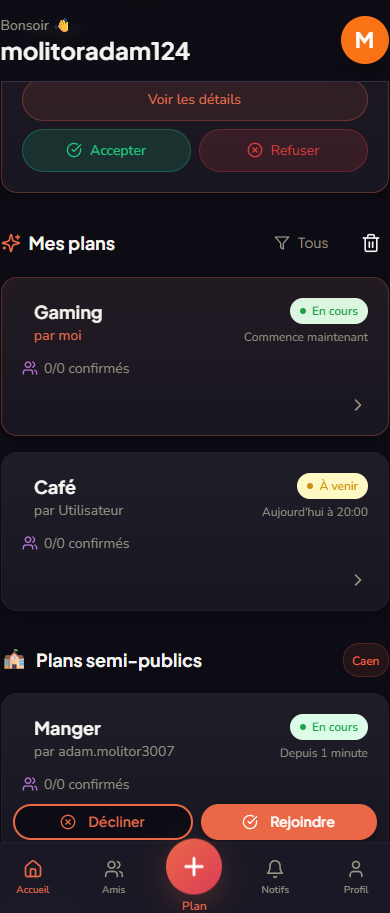
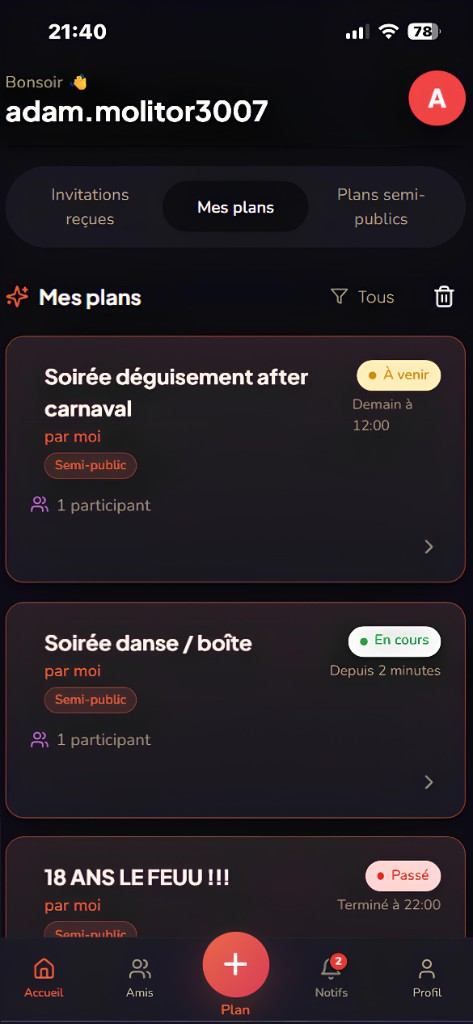
Description

Changed region(s): [[0.0, 0.0, 1.0, 1.0], [0.0, 0.184, 0.0308, 0.2147]]

diff --git a/src/components/HeroSection.tsx b/src/components/HeroSection.tsx
@@ -1,4 +1,4 @@
-import socialSceneImage from "@/assets/social-scene.jpg";
+import socialSceneImage from "@/assets/social-scene.png";
 
 const INSTAGRAM_COMMUNITY_LINK = "https://ig.me/j/Abbq3hHQWv0LUGOG/";
 const DISCORD_INVITE_LINK = "https://discord.gg/azSbYCFmS3";
@@ -13,7 +13,7 @@ const HeroSection = () => {
       <div className="absolute inset-0 overflow-hidden pointer-events-none">
         <img
           src={socialSceneImage}
-          alt="Groupe d'amis qui sortent en ville le soir"
+          alt="Foule en soirée, mains levées au coucher de soleil — événement et nightlife"
           className="w-full h-full object-cover"
         />
         <div className="absolute inset-0 bg-gradient-to-b from-black/60 via-black/50 to-black/70" />
@@ -29,21 +29,21 @@ const HeroSection = () => {
             </span>
           </div>
 
-          {/* Headline - SEO + émotion */}
+          {/* Headline - SEO + émotion (légère ombre pour lisibilité) */}
           <h1
             id="weout-hero-heading"
-            className="text-4xl sm:text-5xl md:text-6xl font-bold leading-[1.1] tracking-tight mb-6 animate-fade-in"
+            className="text-4xl sm:text-5xl md:text-6xl font-bold leading-[1.1] tracking-tight mb-6 animate-fade-in [text-shadow:0_1px_2px_rgba(0,0,0,0.4),0_0_12px_rgba(0,0,0,0.25)]"
             style={{ animationDelay: "0.1s" }}
           >
             Sortir à Caen{" "}
-            <span className="bg-gradient-to-r from-accent to-primary bg-clip-text text-transparent">
+            <span className="bg-gradient-to-r from-accent to-primary bg-clip-text text-transparent [text-shadow:0_1px_2px_rgba(0,0,0,0.4),0_0_12px_rgba(0,0,0,0.25)]">
               avec tes amis, ce soir.
             </span>
           </h1>
 
-          {/* Subheadline - projection + mots-clés */}
+          {/* Subheadline - projection + mots-clés (blanc + ombre pour lisibilité sur la photo) */}
           <p
-            className="text-lg md:text-xl text-muted-foreground max-w-lg mx-auto mb-10 animate-fade-in leading-relaxed"
+            className="text-lg md:text-xl text-white/95 max-w-lg mx-auto mb-10 animate-fade-in leading-relaxed [text-shadow:0_1px_4px_rgba(0,0,0,0.8),0_0_20px_rgba(0,0,0,0.5)]"
             style={{ animationDelay: "0.2s" }}
           >
             WeOut est l'app pour organiser des sorties entre amis, rencontrer des gens
@@ -95,7 +95,7 @@ const HeroSection = () => {
             </a>
             
             {/* Micro social proof */}
-            <p className="text-sm text-muted-foreground mt-2 flex items-center justify-center gap-2">
+            <p className="text-sm text-white/90 mt-2 flex items-center justify-center gap-2 [text-shadow:0_1px_3px_rgba(0,0,0,0.9)]">
               <span className="w-1.5 h-1.5 rounded-full bg-accent/60" />
               Accès prioritaire à l'app pour les membres de la communauté
             </p>

diff --git a/src/components/TestimonialsSection.tsx b/src/components/TestimonialsSection.tsx
@@ -1,41 +1,48 @@
 import { useEffect, useRef } from "react";
 
+import avatarLea from "@/assets/testimonial-lea.png";
+import avatarThomas from "@/assets/testimonial-thomas.png";
+import avatarInes from "@/assets/testimonial-ines.png";
+import avatarMathis from "@/assets/testimonial-mathis.png";
+import avatarChloe from "@/assets/testimonial-chloe.png";
+import avatarLucas from "@/assets/testimonial-lucas.png";
+
 const testimonials = [
   {
     name: "Léa",
     age: 21,
     text: "Ça évite les messages gênants dans le groupe. Tu sais direct qui est chaud.",
-    avatar: "https://images.unsplash.com/photo-1494790108377-be9c29b29330?w=100&h=100&fit=crop&crop=face",
+    avatar: avatarLea,
   },
   {
     name: "Thomas",
     age: 19,
     text: "J'ai trouvé des gens chauds pour sortir sans forcer. Simple.",
-    avatar: "https://images.unsplash.com/photo-1507003211169-0a1dd7228f2d?w=100&h=100&fit=crop&crop=face",
+    avatar: avatarThomas,
   },
   {
     name: "Inès",
     age: 22,
     text: "Enfin une app sociale sans malaise. J'attends le lancement public.",
-    avatar: "https://images.unsplash.com/photo-1438761681033-6461ffad8d80?w=100&h=100&fit=crop&crop=face",
+    avatar: avatarInes,
   },
   {
     name: "Mathis",
     age: 20,
     text: "Je découvre des plans que j'aurais jamais connu sinon.",
-    avatar: "https://images.unsplash.com/photo-1500648767791-00dcc994a43e?w=100&h=100&fit=crop&crop=face",
+    avatar: avatarMathis,
   },
   {
     name: "Chloé",
     age: 23,
     text: "Nouvelle dans ma ville. WeOut m'a aidé à rencontrer du monde.",
-    avatar: "https://images.unsplash.com/photo-1534528741775-53994a69daeb?w=100&h=100&fit=crop&crop=face",
+    avatar: avatarChloe,
   },
   {
-    name: "Lucas",
+    name: "Yanis",
     age: 18,
     text: "Plus besoin d'attendre que quelqu'un propose. Tu proposes, point.",
-    avatar: "https://images.unsplash.com/photo-1539571696357-5a69c17a67c6?w=100&h=100&fit=crop&crop=face",
+    avatar: avatarLucas,
   },
 ];
 

diff --git a/src/components/AppShowcaseSection.tsx b/src/components/AppShowcaseSection.tsx
@@ -1,4 +1,4 @@
-import socialSceneImage from "@/assets/social-scene.jpg";
+import showcaseImage from "@/assets/social-scene-showcase.png";
 import appScreenshot from "@/assets/app-screenshot.png";
 
 const AppShowcaseSection = () => {
@@ -61,15 +61,17 @@ const AppShowcaseSection = () => {
             </div>
           </div>
 
-          {/* Social Scene Image - Right side */}
+          {/* Social Scene Image - Right side (bords arrondis + dégradés comme avant) */}
           <div className="relative lg:w-[55%] lg:-ml-8">
             <div className="relative rounded-3xl overflow-hidden shadow-2xl">
               <img
-                src={socialSceneImage}
+                src={showcaseImage}
                 alt="Groupe d'amis qui s'amusent ensemble en soirée dans les rues de Caen"
                 className="w-full h-[400px] md:h-[500px] lg:h-[600px] object-cover"
                 loading="lazy"
               />
+              <div className="absolute inset-0 bg-gradient-to-r from-background via-background/50 to-transparent z-10 lg:w-1/3 pointer-events-none" />
+              <div className="absolute inset-0 bg-gradient-to-t from-background/80 via-transparent to-background/30 z-10 pointer-events-none" />
 
               {/* Overlay content */}
               <div className="absolute bottom-6 left-6 right-6 z-20">
